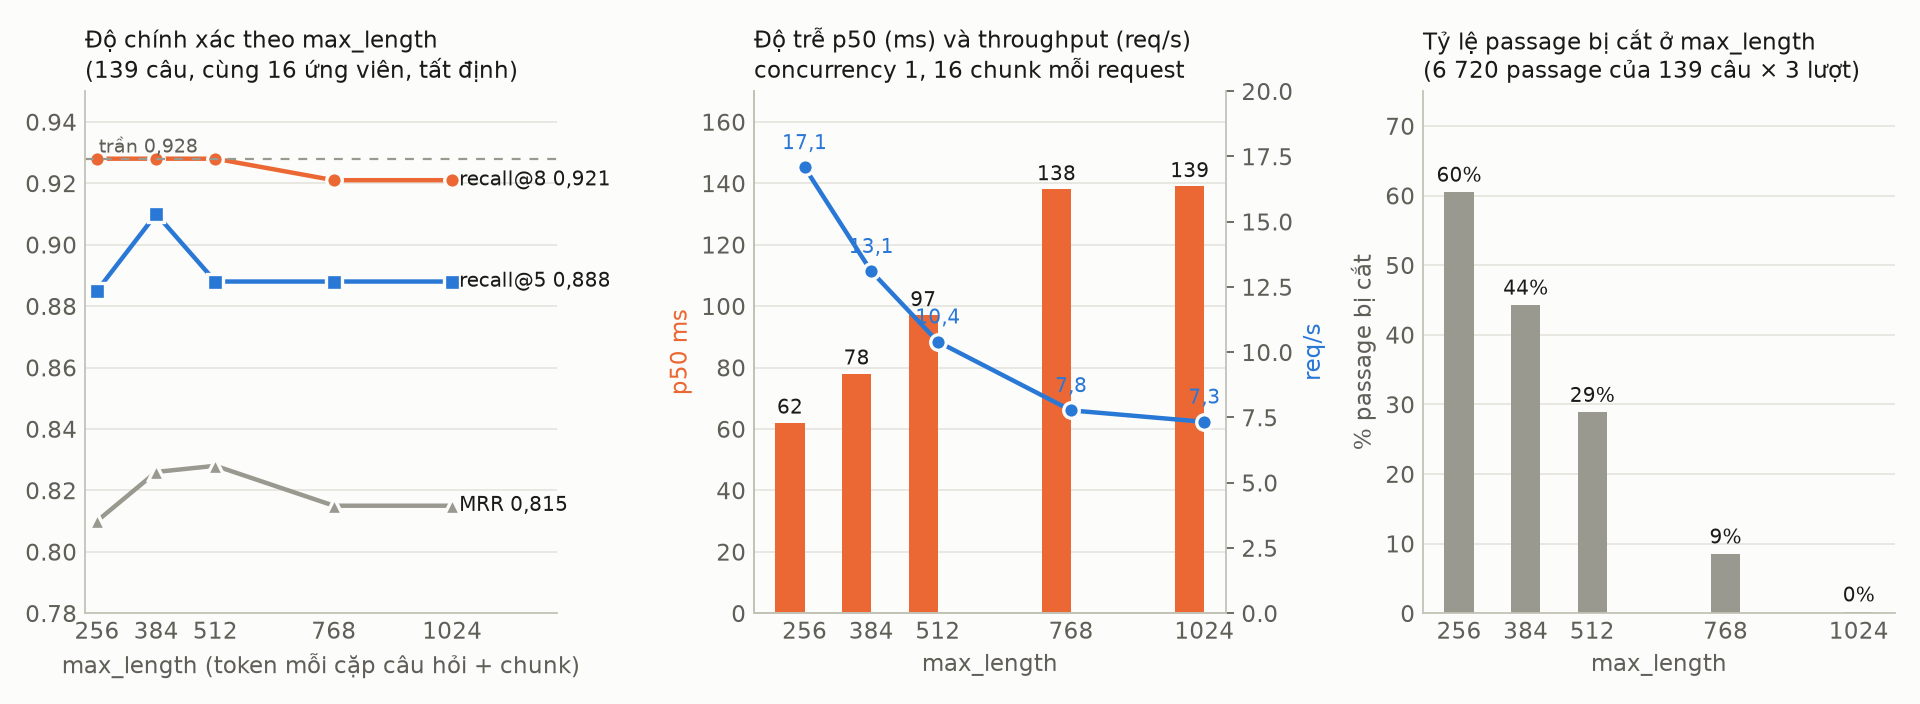
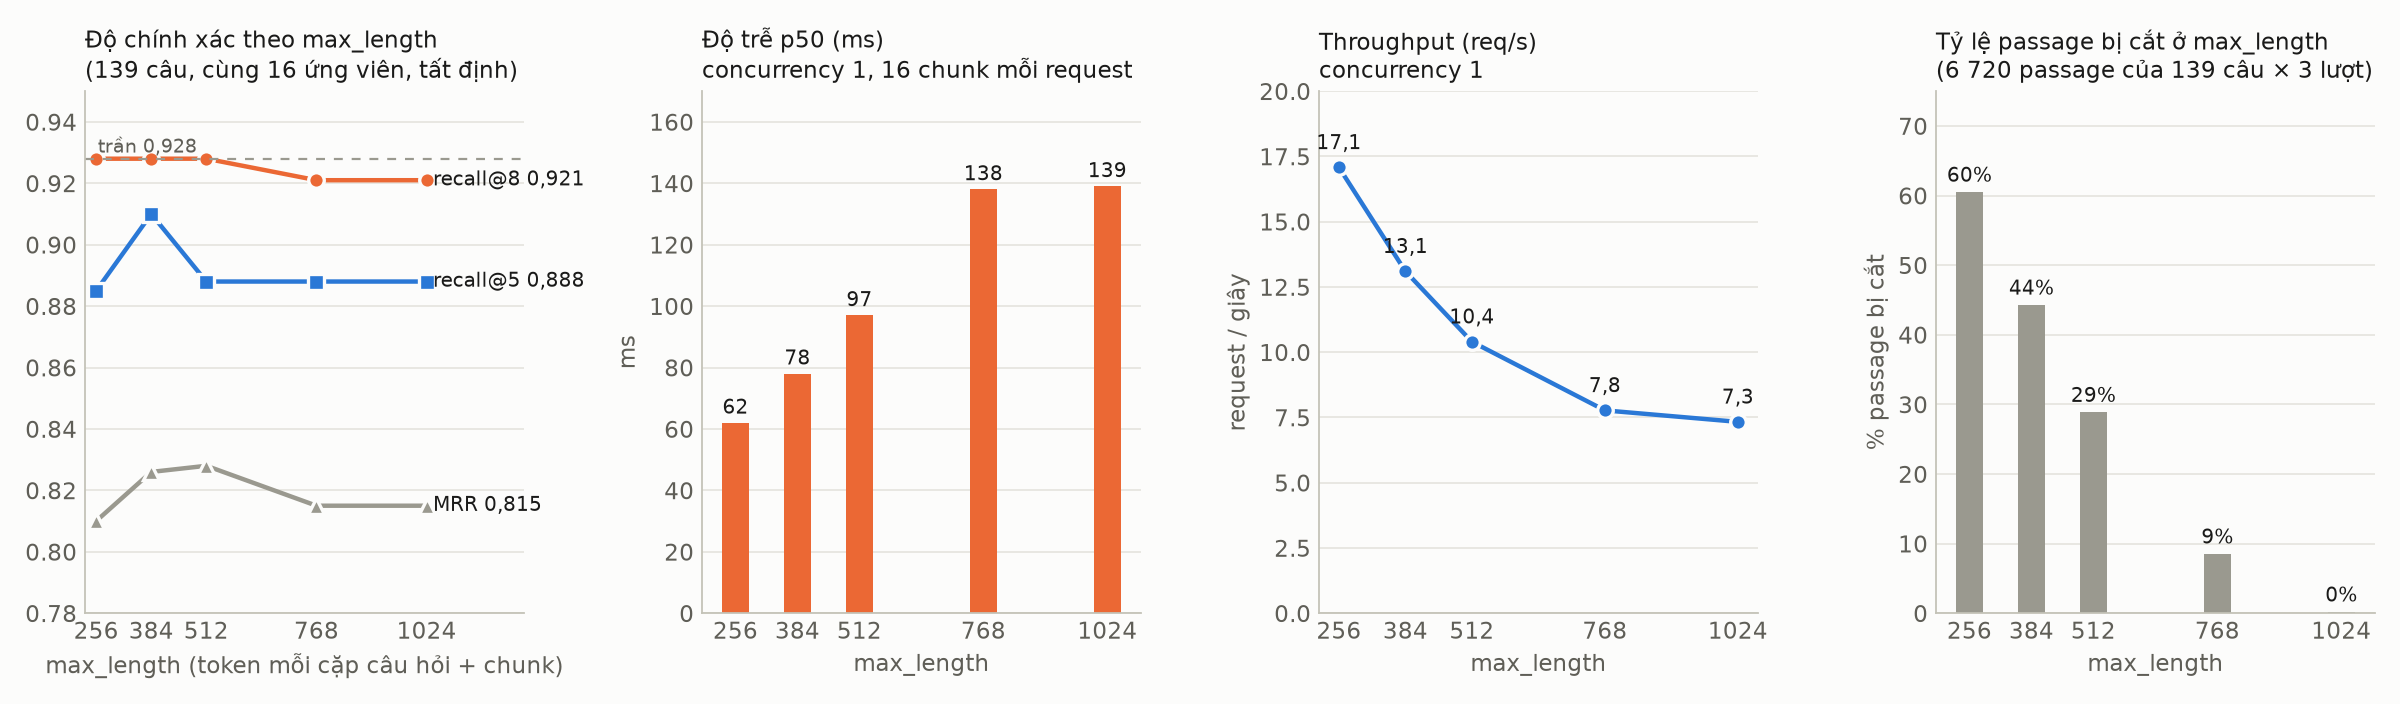
[UNISAGE-106] Báo cáo: hình 3b tách thành 4 panel một trục, kèm script vẽ

diff --git a/changes/22-10-2026-CrossEncoderBenchmark/plot_maxlen.py b/changes/22-10-2026-CrossEncoderBenchmark/plot_maxlen.py
@@ -8,23 +8,24 @@ recall8 = [0.928, 0.928, 0.928, 0.921, 0.921]; recall5 = [0.885, 0.910, 0.888, 0
 p50 = [62, 78, 97, 138, 139]; rps = [17.08, 13.10, 10.40, 7.77, 7.33]; trunc = [4065/6720, 2975/6720, 1939/6720, 572/6720, 12/6720]
 INK, INK2, GRID, SURF = "#1a1a19", "#5f5e57", "#e6e5df", "#fcfcfb"; C1, C2, C3 = "#eb6834", "#2a78d6", "#9a998f"
 plt.rcParams.update({"font.size": 10.5, "font.family": "DejaVu Sans", "axes.edgecolor": "#c3c2b7", "axes.labelcolor": INK2, "xtick.color": INK2, "ytick.color": INK2})
-f = plt.figure(figsize=(12, 4.4), dpi=160); f.patch.set_facecolor(SURF)
+f = plt.figure(figsize=(15, 4.4), dpi=160); f.patch.set_facecolor(SURF)
 def style(ax, t):
     ax.set_facecolor(SURF); [ax.spines[s].set_visible(False) for s in ("top", "right")]; ax.grid(axis="y", color=GRID, linewidth=0.8); ax.set_axisbelow(True); ax.tick_params(length=0); ax.set_title(t, loc="left", fontsize=10.5, color=INK)
-ax = f.add_subplot(131); style(ax, "Độ chính xác theo max_length\n(139 câu, cùng 16 ứng viên, tất định)")
+ax = f.add_subplot(141); style(ax, "Độ chính xác theo max_length\n(139 câu, cùng 16 ứng viên, tất định)")
 for ys, c, lab, m in ((recall8, C1, "recall@8", "o"), (recall5, C2, "recall@5", "s"), (mrr, C3, "MRR", "^")):
     ax.plot(ml, ys, color=c, linewidth=2, marker=m, markersize=7, markeredgecolor=SURF, markeredgewidth=1.5, label=lab)
     ax.text(ml[-1] + 15, ys[-1], f"{lab} {ys[-1]:.3f}".replace(".", ","), fontsize=9, color=INK, va="center")
 ax.axhline(0.928, color="#9a998f", linewidth=1, linestyle=(0, (4, 4))); ax.text(260, 0.930, "trần 0,928", fontsize=8.5, color=INK2)
 ax.set_xticks(ml); ax.set_xlim(230, 1250); ax.set_ylim(0.78, 0.95); ax.set_xlabel("max_length (token mỗi cặp câu hỏi + chunk)")
-ax = f.add_subplot(132); style(ax, "Độ trễ p50 (ms) và throughput (req/s)\nconcurrency 1, 16 chunk mỗi request")
-ax.bar([x - 28 for x in ml], p50, width=56, color=C1)
-for x, v in zip(ml, p50): ax.text(x - 28, v + 3, f"{v}", ha="center", fontsize=9, color=INK)
-ax.set_ylabel("p50 ms", color=C1); ax.set_xticks(ml); ax.set_xlabel("max_length"); ax.set_ylim(0, 170)
-ax2 = ax.twinx(); ax2.plot(ml, rps, color=C2, linewidth=2, marker="o", markersize=7, markeredgecolor=SURF, markeredgewidth=1.5); ax2.set_ylim(0, 20); ax2.set_ylabel("req/s", color=C2)
-for s_ in ("top",): ax2.spines[s_].set_visible(False)
-for x, v in zip(ml, rps): ax2.text(x, v + 0.7, f"{v:.1f}".replace(".", ","), ha="center", fontsize=9, color=C2)
-ax = f.add_subplot(133); style(ax, "Tỷ lệ passage bị cắt ở max_length\n(6 720 passage của 139 câu × 3 lượt)")
+ax = f.add_subplot(142); style(ax, "Độ trễ p50 (ms)\nconcurrency 1, 16 chunk mỗi request")
+ax.bar(ml, p50, width=56, color=C1)
+for x, v in zip(ml, p50): ax.text(x, v + 3, f"{v}", ha="center", fontsize=9, color=INK)
+ax.set_xticks(ml); ax.set_xlabel("max_length"); ax.set_ylim(0, 170); ax.set_ylabel("ms")
+ax = f.add_subplot(143); style(ax, "Throughput (req/s)\nconcurrency 1")
+ax.plot(ml, rps, color=C2, linewidth=2, marker="o", markersize=7, markeredgecolor=SURF, markeredgewidth=1.5)
+for x, v in zip(ml, rps): ax.text(x, v + 0.7, f"{v:.1f}".replace(".", ","), ha="center", fontsize=9, color=INK)
+ax.set_xticks(ml); ax.set_ylim(0, 20); ax.set_ylabel("request / giây"); ax.set_xlabel("max_length")
+ax = f.add_subplot(144); style(ax, "Tỷ lệ passage bị cắt ở max_length\n(6 720 passage của 139 câu × 3 lượt)")
 ax.bar(ml, [t * 100 for t in trunc], width=56, color=C3)
 for x, t in zip(ml, trunc): ax.text(x, t * 100 + 1.5, f"{t*100:.0f}%", ha="center", fontsize=9, color=INK)
 ax.set_xticks(ml); ax.set_ylim(0, 75); ax.set_ylabel("% passage bị cắt"); ax.set_xlabel("max_length")

diff --git a/changes/22-10-2026-CrossEncoderBenchmark/report.md b/changes/22-10-2026-CrossEncoderBenchmark/report.md
@@ -470,9 +470,9 @@ cùng lúc, không chờ thêm); giữ worker thread vì nó làm `/health` khô
 
 ![Đánh đổi theo max_length](fig3b-maxlen-sweep.png)
 
-*Hình 3b. Trái: recall@8 giữ nguyên ở trần 0,928 từ 256 đến 512 rồi giảm nhẹ ở 768–1024; MRR cao
-nhất ở 384–512. Giữa: độ trễ giảm gần tuyến tính theo max_length, throughput tăng 7,3 → 17 req/s.
-Phải: tỷ lệ passage bị cắt; ở 512 gần 1/3 passage bị cắt mà độ chính xác không giảm, nghĩa là
+*Hình 3b. Từ trái: recall@8 giữ nguyên ở trần 0,928 từ 256 đến 512 rồi giảm nhẹ ở 768–1024, MRR
+cao nhất ở 384–512; độ trễ p50 giảm gần tuyến tính theo max_length; throughput tăng 7,3 → 17 req/s;
+tỷ lệ passage bị cắt; ở 512 gần 1/3 passage bị cắt mà độ chính xác không giảm, nghĩa là
 phần đuôi của chunk dài không giúp cross-encoder phân biệt tài liệu.*
 
 Bảng 3 ở `max_length=512` (`benchmark_results/step-b4-ce-maxlen512`, 5 vòng `-p`: p50 89 ms,
